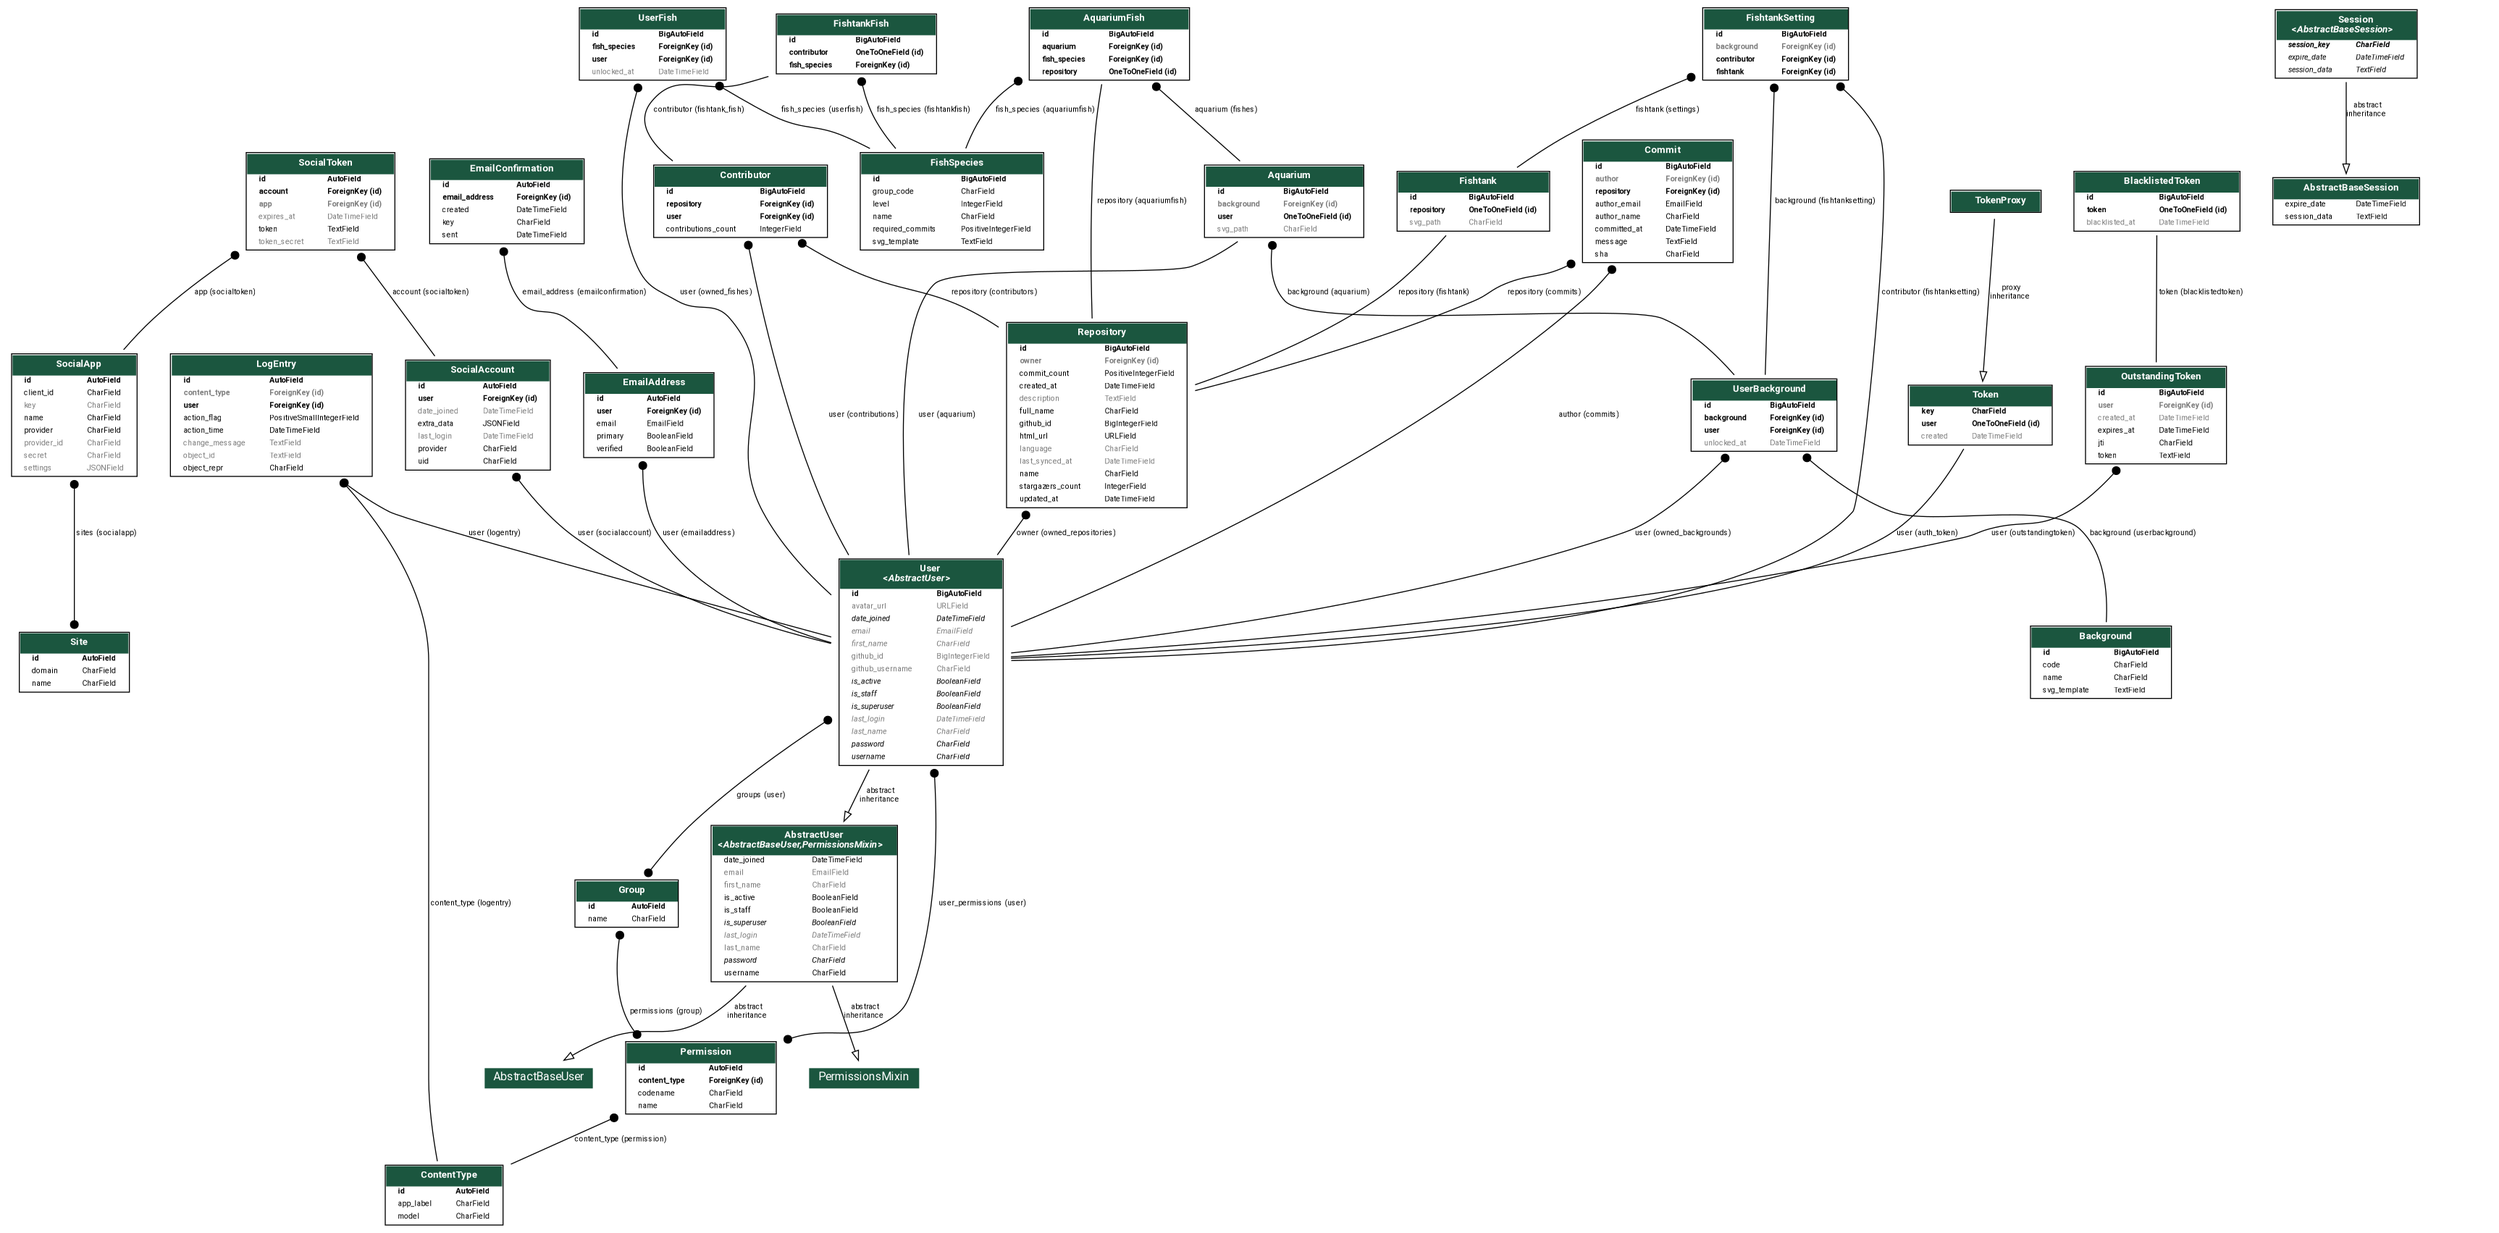
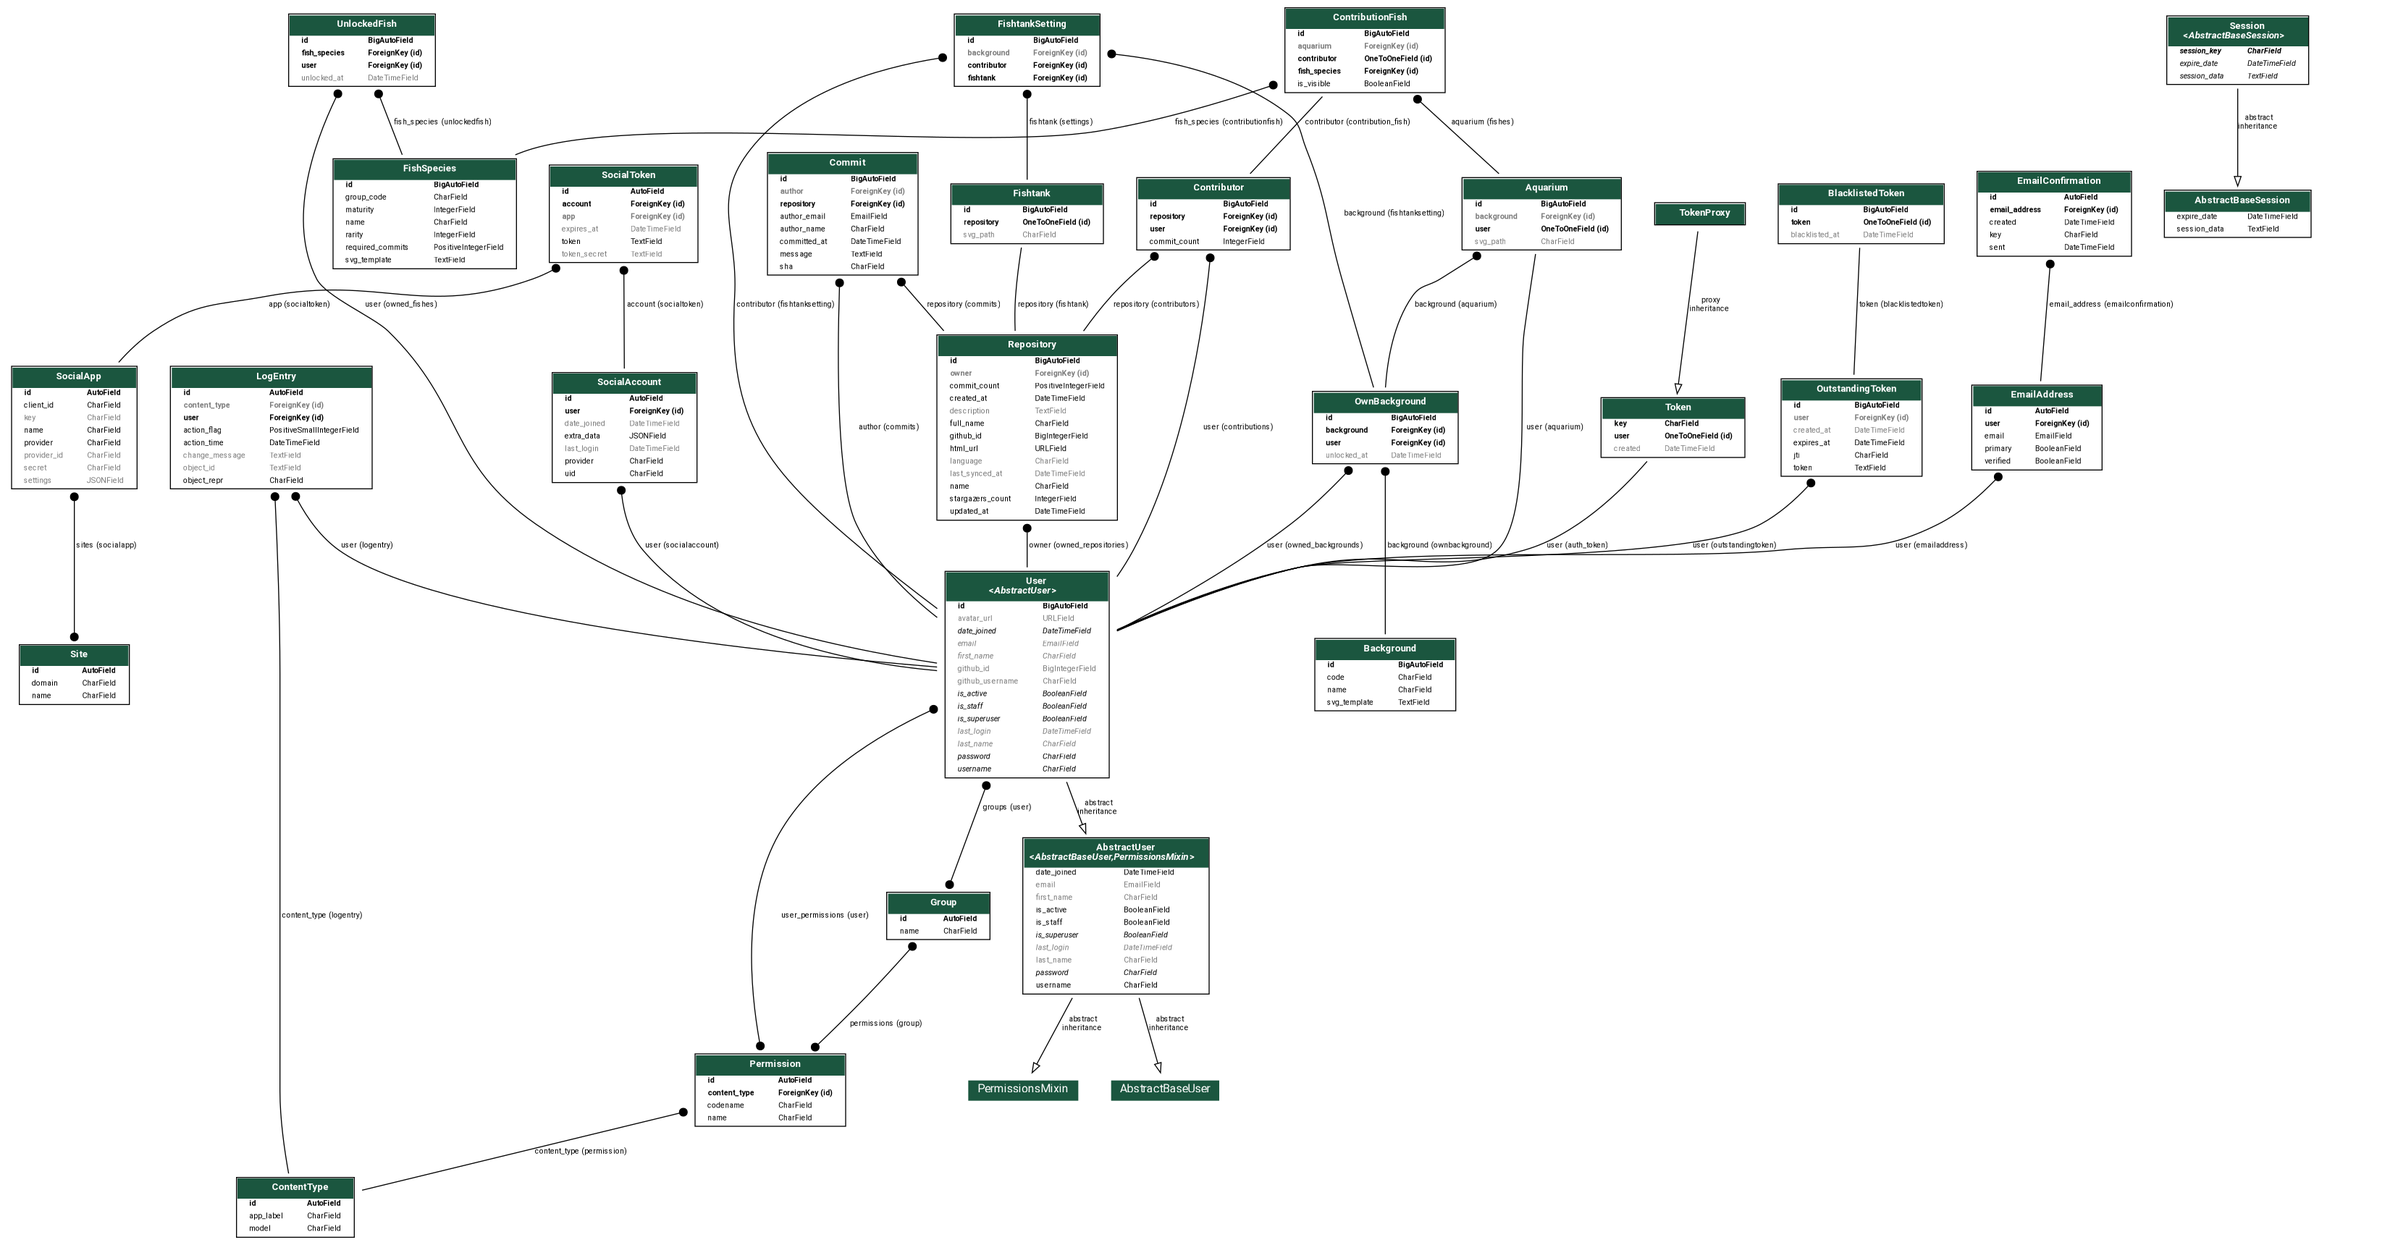
[Refactor] 요구사항 변경에 따른 모델 구조 변경

diff --git a/apps/aquatics/migrations/0001_initial.py b/apps/aquatics/migrations/0001_initial.py
@@ -1,4 +1,4 @@
-# Generated by Django 5.2.6 on 2025-11-10 12:44
+# Generated by Django 5.2.6 on 2025-11-15 00:41
 
 import django.db.models.deletion
 from django.conf import settings
@@ -25,12 +25,13 @@ class Migration(migrations.Migration):
             ],
         ),
         migrations.CreateModel(
-            name='AquariumFish',
+            name='ContributionFish',
             fields=[
                 ('id', models.BigAutoField(auto_created=True, primary_key=True, serialize=False, verbose_name='ID')),
-                ('aquarium', models.ForeignKey(on_delete=django.db.models.deletion.CASCADE, related_name='fishes', to='aquatics.aquarium')),
-                ('fish_species', models.ForeignKey(help_text='The species assigned to this repository-fish.', on_delete=django.db.models.deletion.PROTECT, to='items.fishspecies')),
-                ('repository', models.OneToOneField(on_delete=django.db.models.deletion.CASCADE, to='repositories.repository')),
+                ('is_visible', models.BooleanField(default=True, help_text='Determines whether this fish is visible in the fishtank.')),
+                ('aquarium', models.ForeignKey(blank=True, help_text='The aquarium this fish has been added to.', null=True, on_delete=django.db.models.deletion.SET_NULL, related_name='fishes', to='aquatics.aquarium')),
+                ('contributor', models.OneToOneField(on_delete=django.db.models.deletion.CASCADE, related_name='contribution_fish', to='repositories.contributor')),
+                ('fish_species', models.ForeignKey(help_text='The species assigned to this contributor.', on_delete=django.db.models.deletion.PROTECT, to='items.fishspecies')),
             ],
         ),
         migrations.CreateModel(
@@ -42,15 +43,7 @@ class Migration(migrations.Migration):
             ],
         ),
         migrations.CreateModel(
-            name='FishtankFish',
-            fields=[
-                ('id', models.BigAutoField(auto_created=True, primary_key=True, serialize=False, verbose_name='ID')),
-                ('contributor', models.OneToOneField(on_delete=django.db.models.deletion.CASCADE, related_name='fishtank_fish', to='repositories.contributor')),
-                ('fish_species', models.ForeignKey(help_text='The species assigned to this contributor.', on_delete=django.db.models.deletion.PROTECT, to='items.fishspecies')),
-            ],
-        ),
-        migrations.CreateModel(
-            name='UserBackground',
+            name='OwnBackground',
             fields=[
                 ('id', models.BigAutoField(auto_created=True, primary_key=True, serialize=False, verbose_name='ID')),
                 ('unlocked_at', models.DateTimeField(auto_now_add=True, help_text='Timestamp when the user unlocked this background.')),
@@ -64,7 +57,7 @@ class Migration(migrations.Migration):
         migrations.AddField(
             model_name='aquarium',
             name='background',
-            field=models.ForeignKey(blank=True, help_text='The background chosen by the user from their collection.', null=True, on_delete=django.db.models.deletion.SET_NULL, to='aquatics.userbackground'),
+            field=models.ForeignKey(blank=True, help_text='The background chosen by the user from their collection.', null=True, on_delete=django.db.models.deletion.SET_NULL, to='aquatics.ownbackground'),
         ),
         migrations.CreateModel(
             name='FishtankSetting',
@@ -72,14 +65,14 @@ class Migration(migrations.Migration):
                 ('id', models.BigAutoField(auto_created=True, primary_key=True, serialize=False, verbose_name='ID')),
                 ('contributor', models.ForeignKey(on_delete=django.db.models.deletion.CASCADE, to=settings.AUTH_USER_MODEL)),
                 ('fishtank', models.ForeignKey(on_delete=django.db.models.deletion.CASCADE, related_name='settings', to='aquatics.fishtank')),
-                ('background', models.ForeignKey(blank=True, help_text='The background chosen by the contributor for this fishtank.', null=True, on_delete=django.db.models.deletion.SET_NULL, to='aquatics.userbackground')),
+                ('background', models.ForeignKey(blank=True, help_text='The background chosen by the contributor for this fishtank.', null=True, on_delete=django.db.models.deletion.SET_NULL, to='aquatics.ownbackground')),
             ],
             options={
                 'unique_together': {('fishtank', 'contributor')},
             },
         ),
         migrations.CreateModel(
-            name='UserFish',
+            name='UnlockedFish',
             fields=[
                 ('id', models.BigAutoField(auto_created=True, primary_key=True, serialize=False, verbose_name='ID')),
                 ('unlocked_at', models.DateTimeField(auto_now_add=True, help_text='Timestamp when the user unlocked this fish species.')),

diff --git a/apps/aquatics/models.py b/apps/aquatics/models.py
@@ -1,4 +1,4 @@
-# aquartics/models.py
+# apps/aquatics/models.py
 from django.db import models
 from django.conf import settings
 from apps.repositories.models import Repository
@@ -6,14 +6,14 @@ from apps.items.models import Background, FishSpecies
 from apps.repositories.models import Contributor
 
 
-class UserFish(models.Model):
+class UnlockedFish(models.Model):
     """
-    Links a User to a FishSpecies they have unlocked.
+    Links a User to a FishSpecies they have unlocked (like a Fishdex).
     """
     user = models.ForeignKey(
         settings.AUTH_USER_MODEL,
         on_delete=models.CASCADE,
-        related_name='owned_fishes'
+        related_name='owned_fishes' # Note: Consider changing to 'unlocked_fishes' later if needed
     )
     fish_species = models.ForeignKey(
         FishSpecies,
@@ -28,12 +28,12 @@ class UserFish(models.Model):
         unique_together = ('user', 'fish_species')
 
     def __str__(self):
-        return f"{self.user.username}'s {self.fish_species.name}"
+        return f"{self.user.username}'s unlocked {self.fish_species.name}"
 
 
-class UserBackground(models.Model):
+class OwnBackground(models.Model):
     """
-    Links a User to a Background they have unlocked.
+    Links a User to a Background they have unlocked and can use.
     """
     user = models.ForeignKey(
         settings.AUTH_USER_MODEL, 
@@ -67,7 +67,7 @@ class Aquarium(models.Model):
         related_name='aquarium'
     )
     background = models.ForeignKey(
-        UserBackground, 
+        OwnBackground, 
         on_delete=models.SET_NULL, 
         null=True, 
         blank=True,
@@ -82,28 +82,6 @@ class Aquarium(models.Model):
     def __str__(self):
         return f"{self.user.username}'s Aquarium"
 
-class AquariumFish(models.Model):
-    """
-    Represents a single fish within an Aquarium.
-    Each fish corresponds to a repository owned by the user.
-    """
-    aquarium = models.ForeignKey(
-        Aquarium, 
-        on_delete=models.CASCADE, 
-        related_name='fishes'
-    )
-    repository = models.OneToOneField(
-        Repository, 
-        on_delete=models.CASCADE
-    )
-    fish_species = models.ForeignKey(
-        FishSpecies, 
-        on_delete=models.PROTECT,
-        help_text="The species assigned to this repository-fish."
-    )
-
-    def __str__(self):
-        return f"Fish for {self.repository.name} in {self.aquarium}"
 
 class Fishtank(models.Model):
     """
@@ -124,26 +102,37 @@ class Fishtank(models.Model):
     def __str__(self):
         return f"Fishtank for {self.repository.name}"
 
-class FishtankFish(models.Model):
+class ContributionFish(models.Model):
     """
     Represents a contributor's assigned fish within a Fishtank.
-    This model is now directly linked to a Contributor record,
-    which holds the contribution data (e.g., commit count).
+    This fish can optionally be added to a user's personal Aquarium.
     """
     contributor = models.OneToOneField(
         Contributor,
         on_delete=models.CASCADE,
-        related_name='fishtank_fish'
+        related_name='contribution_fish'
     )
-    
     fish_species = models.ForeignKey(
         FishSpecies, 
         on_delete=models.PROTECT,
         help_text="The species assigned to this contributor."
     )
+    aquarium = models.ForeignKey(
+        Aquarium,
+        on_delete=models.SET_NULL,
+        null=True,
+        blank=True,
+        related_name='fishes',
+        help_text="The aquarium this fish has been added to."
+    )
+    is_visible = models.BooleanField(
+        default=True,
+        help_text="Determines whether this fish is visible in the fishtank."
+    )
 
     def __str__(self):
-        # Now we can create a more descriptive string representation.
+        if self.aquarium:
+            return f"Fish for {self.contributor.user.username} in {self.contributor.repository.name}'s Fishtank (in {self.aquarium})"
         return f"Fish for {self.contributor.user.username} in {self.contributor.repository.name}'s Fishtank"
 
 
@@ -161,7 +150,7 @@ class FishtankSetting(models.Model):
         on_delete=models.CASCADE
     )
     background = models.ForeignKey(
-        UserBackground, 
+        OwnBackground, 
         on_delete=models.SET_NULL, 
         null=True, 
         blank=True,
@@ -173,4 +162,3 @@ class FishtankSetting(models.Model):
 
     def __str__(self):
         return f"Setting by {self.contributor.username} for {self.fishtank}"
-    

diff --git a/apps/items/models.py b/apps/items/models.py
@@ -1,11 +1,25 @@
 # apps/items/models.py
 from django.db import models
-from django.core.validators import MinValueValidator, MaxValueValidator
 
 class FishSpecies(models.Model):
     """
     Master data for all available fish species in the system (the "Fishdex").
     """
+    class Rarity(models.IntegerChoices):
+        COMMON = 1, 'Common'
+        UNCOMMON = 2, 'Uncommon'
+        RARE = 3, 'Rare'
+        EPIC = 4, 'Epic'
+        LEGENDARY = 5, 'Legendary'
+
+    class Maturity(models.IntegerChoices):
+        HATCHLING = 0, 'Hatchling'
+        JUVENILE = 1, 'Juvenile'
+        YOUNGLING = 2, 'Youngling'
+        ADULT = 3, 'Adult'
+        ADVANCED = 4, 'Advanced'
+        MASTER = 5, 'Master'
+
     name = models.CharField(
         max_length=100,
         unique=True,
@@ -17,28 +31,32 @@ class FishSpecies(models.Model):
         help_text="A code for the evolution group, e.g., 'C-KRAKEN'.",
         default="NONE"
     )
-    level = models.IntegerField(
-        default=0,
-        validators=[MinValueValidator(0), MaxValueValidator(5)],
-        help_text="The evolution level of the fish, from 0 to 5."
+    maturity = models.IntegerField(
+        choices=Maturity.choices,
+        default=Maturity.HATCHLING,
+        help_text="The evolution stage of the fish."
     )
     required_commits = models.PositiveIntegerField(
         default=0,
-        db_index=True,  # Add index for faster lookups based on commit counts.
-        help_text="The total number of commits required to reach this evolution level."
+        db_index=True,
+        help_text="The total number of commits required to reach this evolution stage."
     )
-    
+    rarity = models.IntegerField(
+        choices=Rarity.choices,
+        default=Rarity.COMMON,
+        help_text="The rarity level of the fish species."
+    )
     svg_template = models.TextField(
         help_text="The SVG source code template for this fish."
     )
 
     class Meta:
         unique_together = [
-            ('group_code', 'level'),
+            ('group_code', 'maturity'),
         ]
 
     def __str__(self):
-        return f"[{self.group_code}-Lvl:{self.level}] {self.name} ({self.required_commits}+ commits)"
+        return f"[{self.group_code}-{self.maturity}] {self.name} ({self.required_commits}+ commits)"
 
 class Background(models.Model):
     """

diff --git a/apps/items/migrations/0001_initial.py b/apps/items/migrations/0001_initial.py
@@ -1,6 +1,5 @@
-# Generated by Django 5.2.6 on 2025-11-10 12:44
+# Generated by Django 5.2.6 on 2025-11-15 00:41
 
-import django.core.validators
 from django.db import migrations, models
 
 
@@ -27,12 +26,13 @@ class Migration(migrations.Migration):
                 ('id', models.BigAutoField(auto_created=True, primary_key=True, serialize=False, verbose_name='ID')),
                 ('name', models.CharField(help_text='The display name of the fish species.', max_length=100, unique=True)),
                 ('group_code', models.CharField(db_index=True, default='NONE', help_text="A code for the evolution group, e.g., 'C-KRAKEN'.", max_length=10)),
-                ('level', models.IntegerField(default=0, help_text='The evolution level of the fish, from 0 to 5.', validators=[django.core.validators.MinValueValidator(0), django.core.validators.MaxValueValidator(5)])),
-                ('required_commits', models.PositiveIntegerField(db_index=True, default=0, help_text='The total number of commits required to reach this evolution level.')),
+                ('maturity', models.IntegerField(choices=[(0, 'Hatchling'), (1, 'Juvenile'), (2, 'Youngling'), (3, 'Adult'), (4, 'Advanced'), (5, 'Master')], default=0, help_text='The evolution stage of the fish.')),
+                ('required_commits', models.PositiveIntegerField(db_index=True, default=0, help_text='The total number of commits required to reach this evolution stage.')),
+                ('rarity', models.IntegerField(choices=[(1, 'Common'), (2, 'Uncommon'), (3, 'Rare'), (4, 'Epic'), (5, 'Legendary')], default=1, help_text='The rarity level of the fish species.')),
                 ('svg_template', models.TextField(help_text='The SVG source code template for this fish.')),
             ],
             options={
-                'unique_together': {('group_code', 'level')},
+                'unique_together': {('group_code', 'maturity')},
             },
         ),
     ]

diff --git a/apps/repositories/migrations/0001_initial.py b/apps/repositories/migrations/0001_initial.py
@@ -1,4 +1,4 @@
-# Generated by Django 5.2.6 on 2025-11-10 12:44
+# Generated by Django 5.2.6 on 2025-11-15 00:41
 
 import django.db.models.deletion
 from django.conf import settings
@@ -49,7 +49,7 @@ class Migration(migrations.Migration):
             name='Contributor',
             fields=[
                 ('id', models.BigAutoField(auto_created=True, primary_key=True, serialize=False, verbose_name='ID')),
-                ('contributions_count', models.IntegerField()),
+                ('commit_count', models.IntegerField()),
                 ('user', models.ForeignKey(on_delete=django.db.models.deletion.CASCADE, related_name='contributions', to=settings.AUTH_USER_MODEL)),
                 ('repository', models.ForeignKey(on_delete=django.db.models.deletion.CASCADE, related_name='contributors', to='repositories.repository')),
             ],

diff --git a/apps/users/adapter.py b/apps/users/adapter.py
@@ -133,7 +133,7 @@ class CustomSocialAccountAdapter(DefaultSocialAccountAdapter):
                         repository=repository_model,
                         user_id=user_id,
                         defaults={
-                            'contributions_count': contributor.contributions,
+                            'commit_count': contributor.contributions,
                         }
                     )
             logger.info("    Successfully synced %d contributors for %s", len(contributors), repo_obj.full_name)

diff --git a/apps/repositories/models.py b/apps/repositories/models.py
@@ -72,7 +72,7 @@ class Contributor(models.Model):
 
     # --- Denormalized data from GitHub for performance ---
     # Total number of contributions to this repository.
-    contributions_count = models.IntegerField()
+    commit_count = models.IntegerField()
 
     class Meta:
         # Ensures that a user can only be listed as a contributor to a repository once.

diff --git a/apps/repositories/serializers.py b/apps/repositories/serializers.py
@@ -25,7 +25,7 @@ class ContributorSerializer(serializers.ModelSerializer):
             'id',
             'user',
             'repository',
-            'contributions_count',
+            'commit_count',
             'github_username',
             'avatar_url'
         ]
